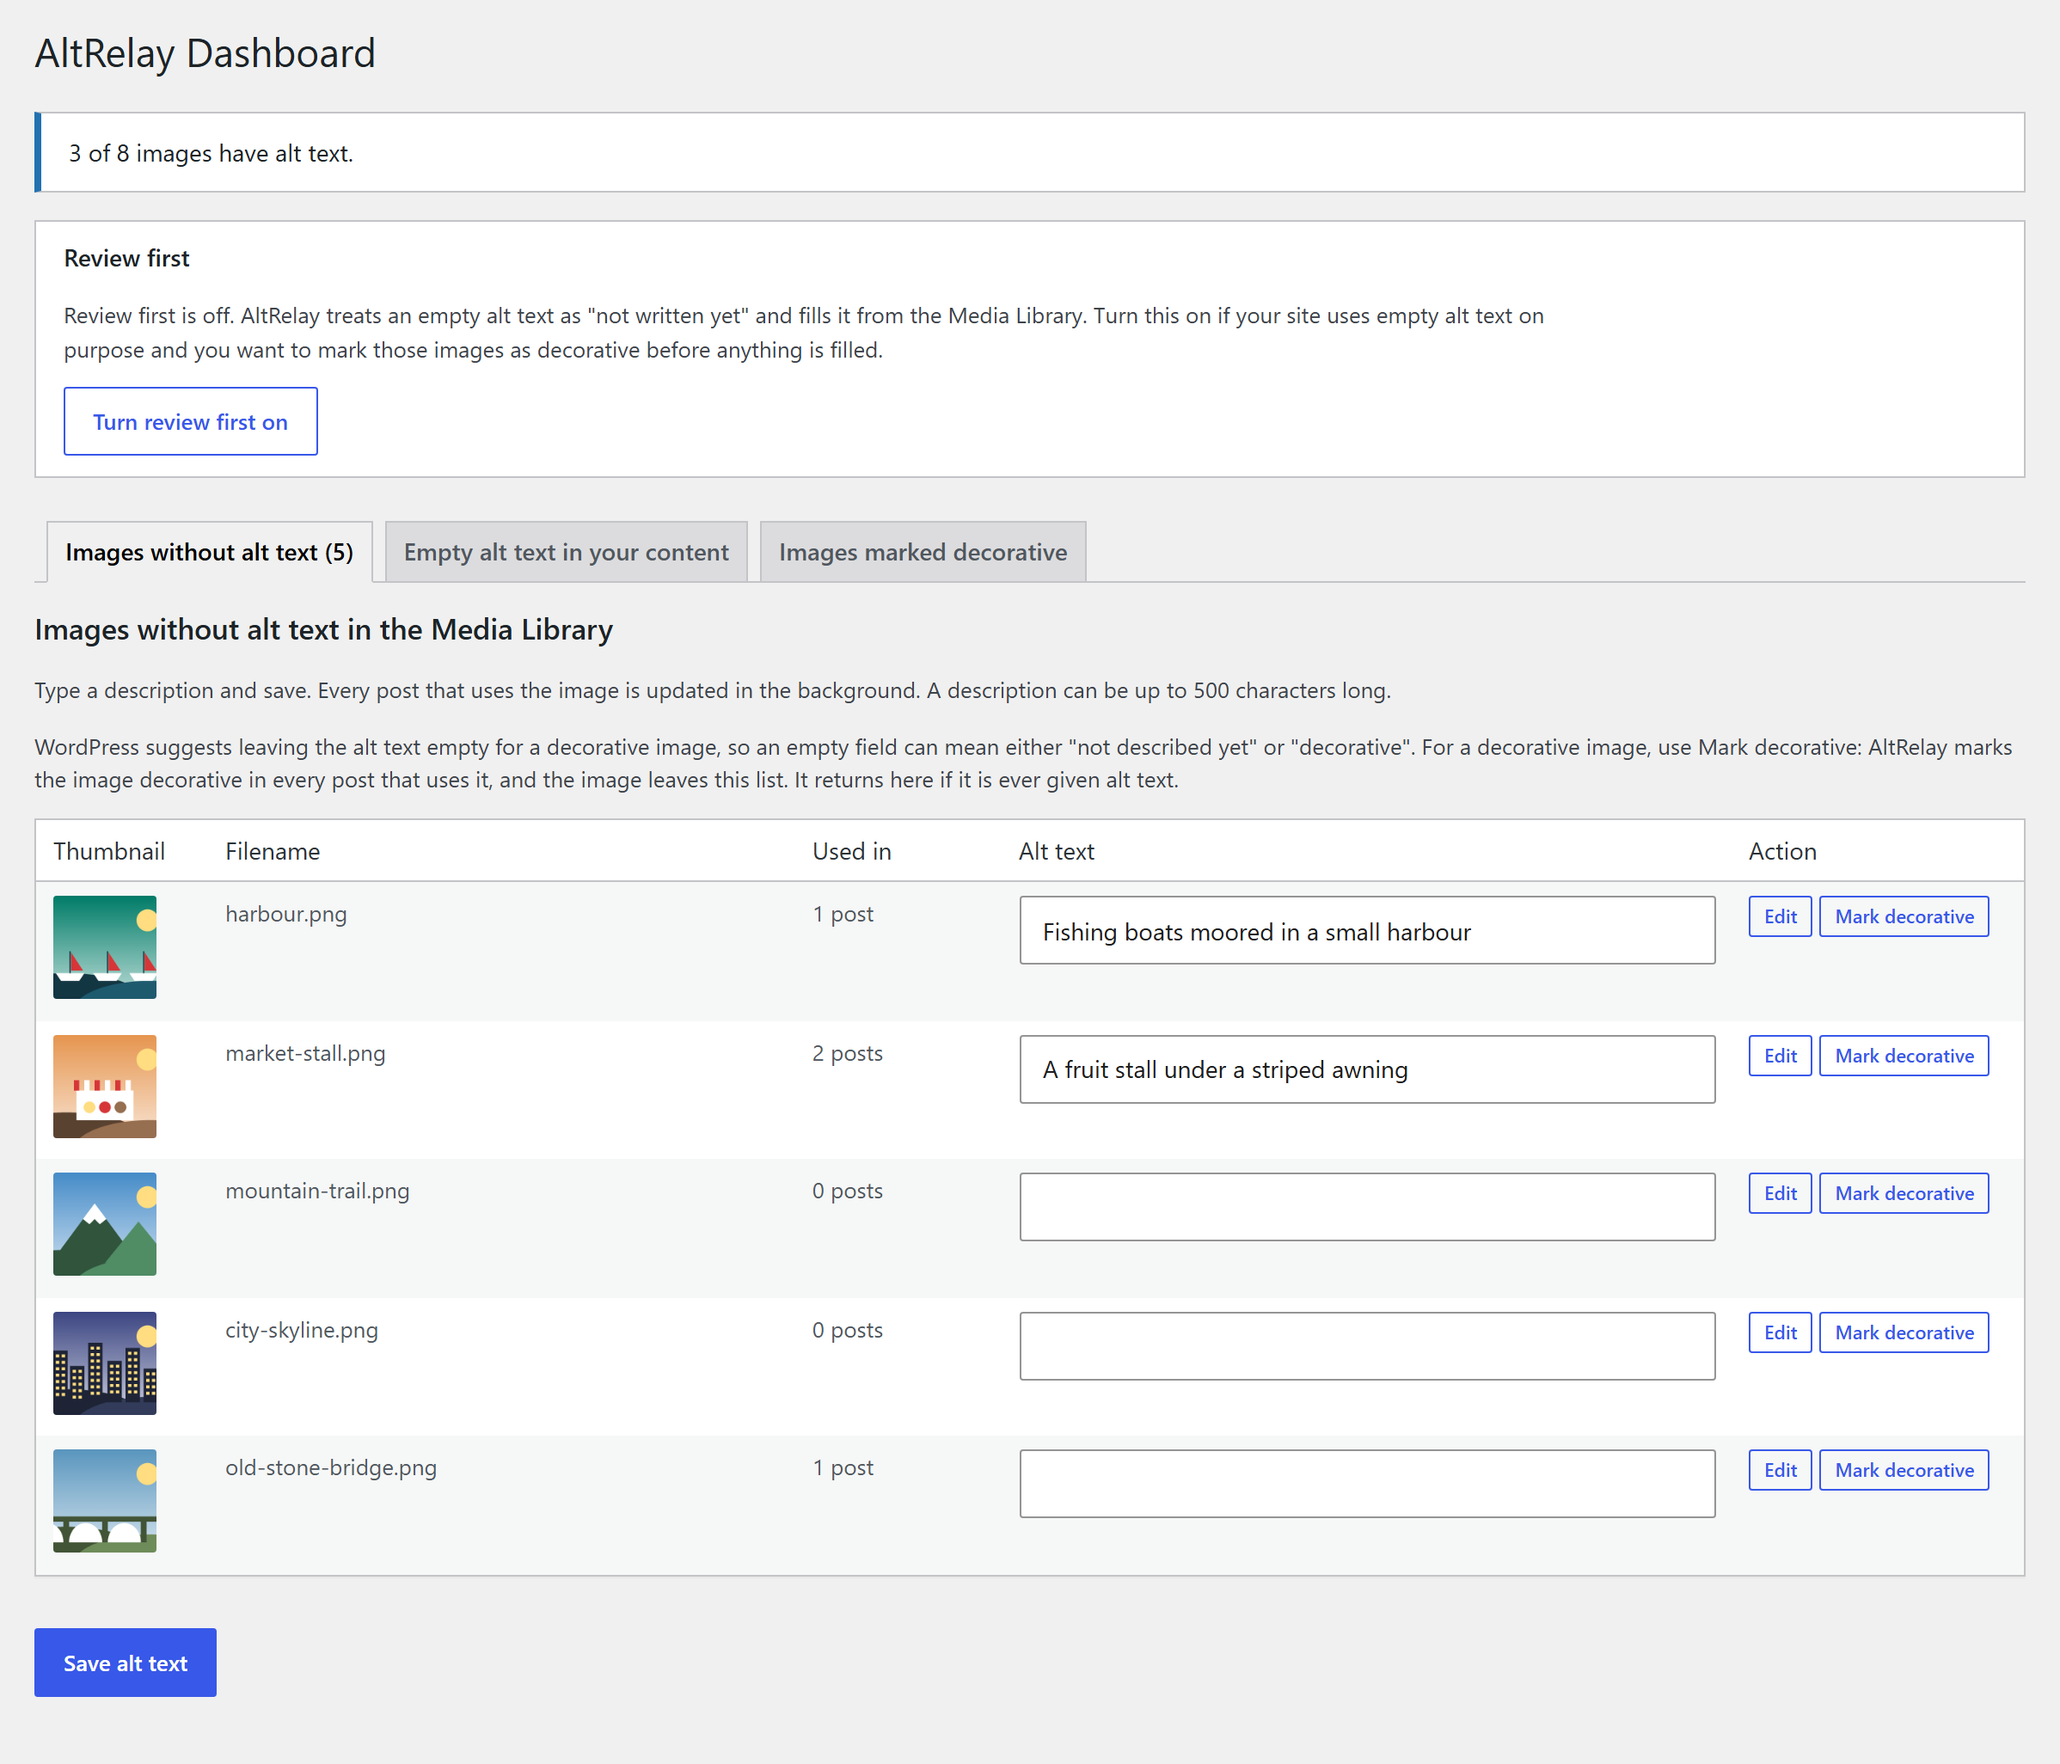
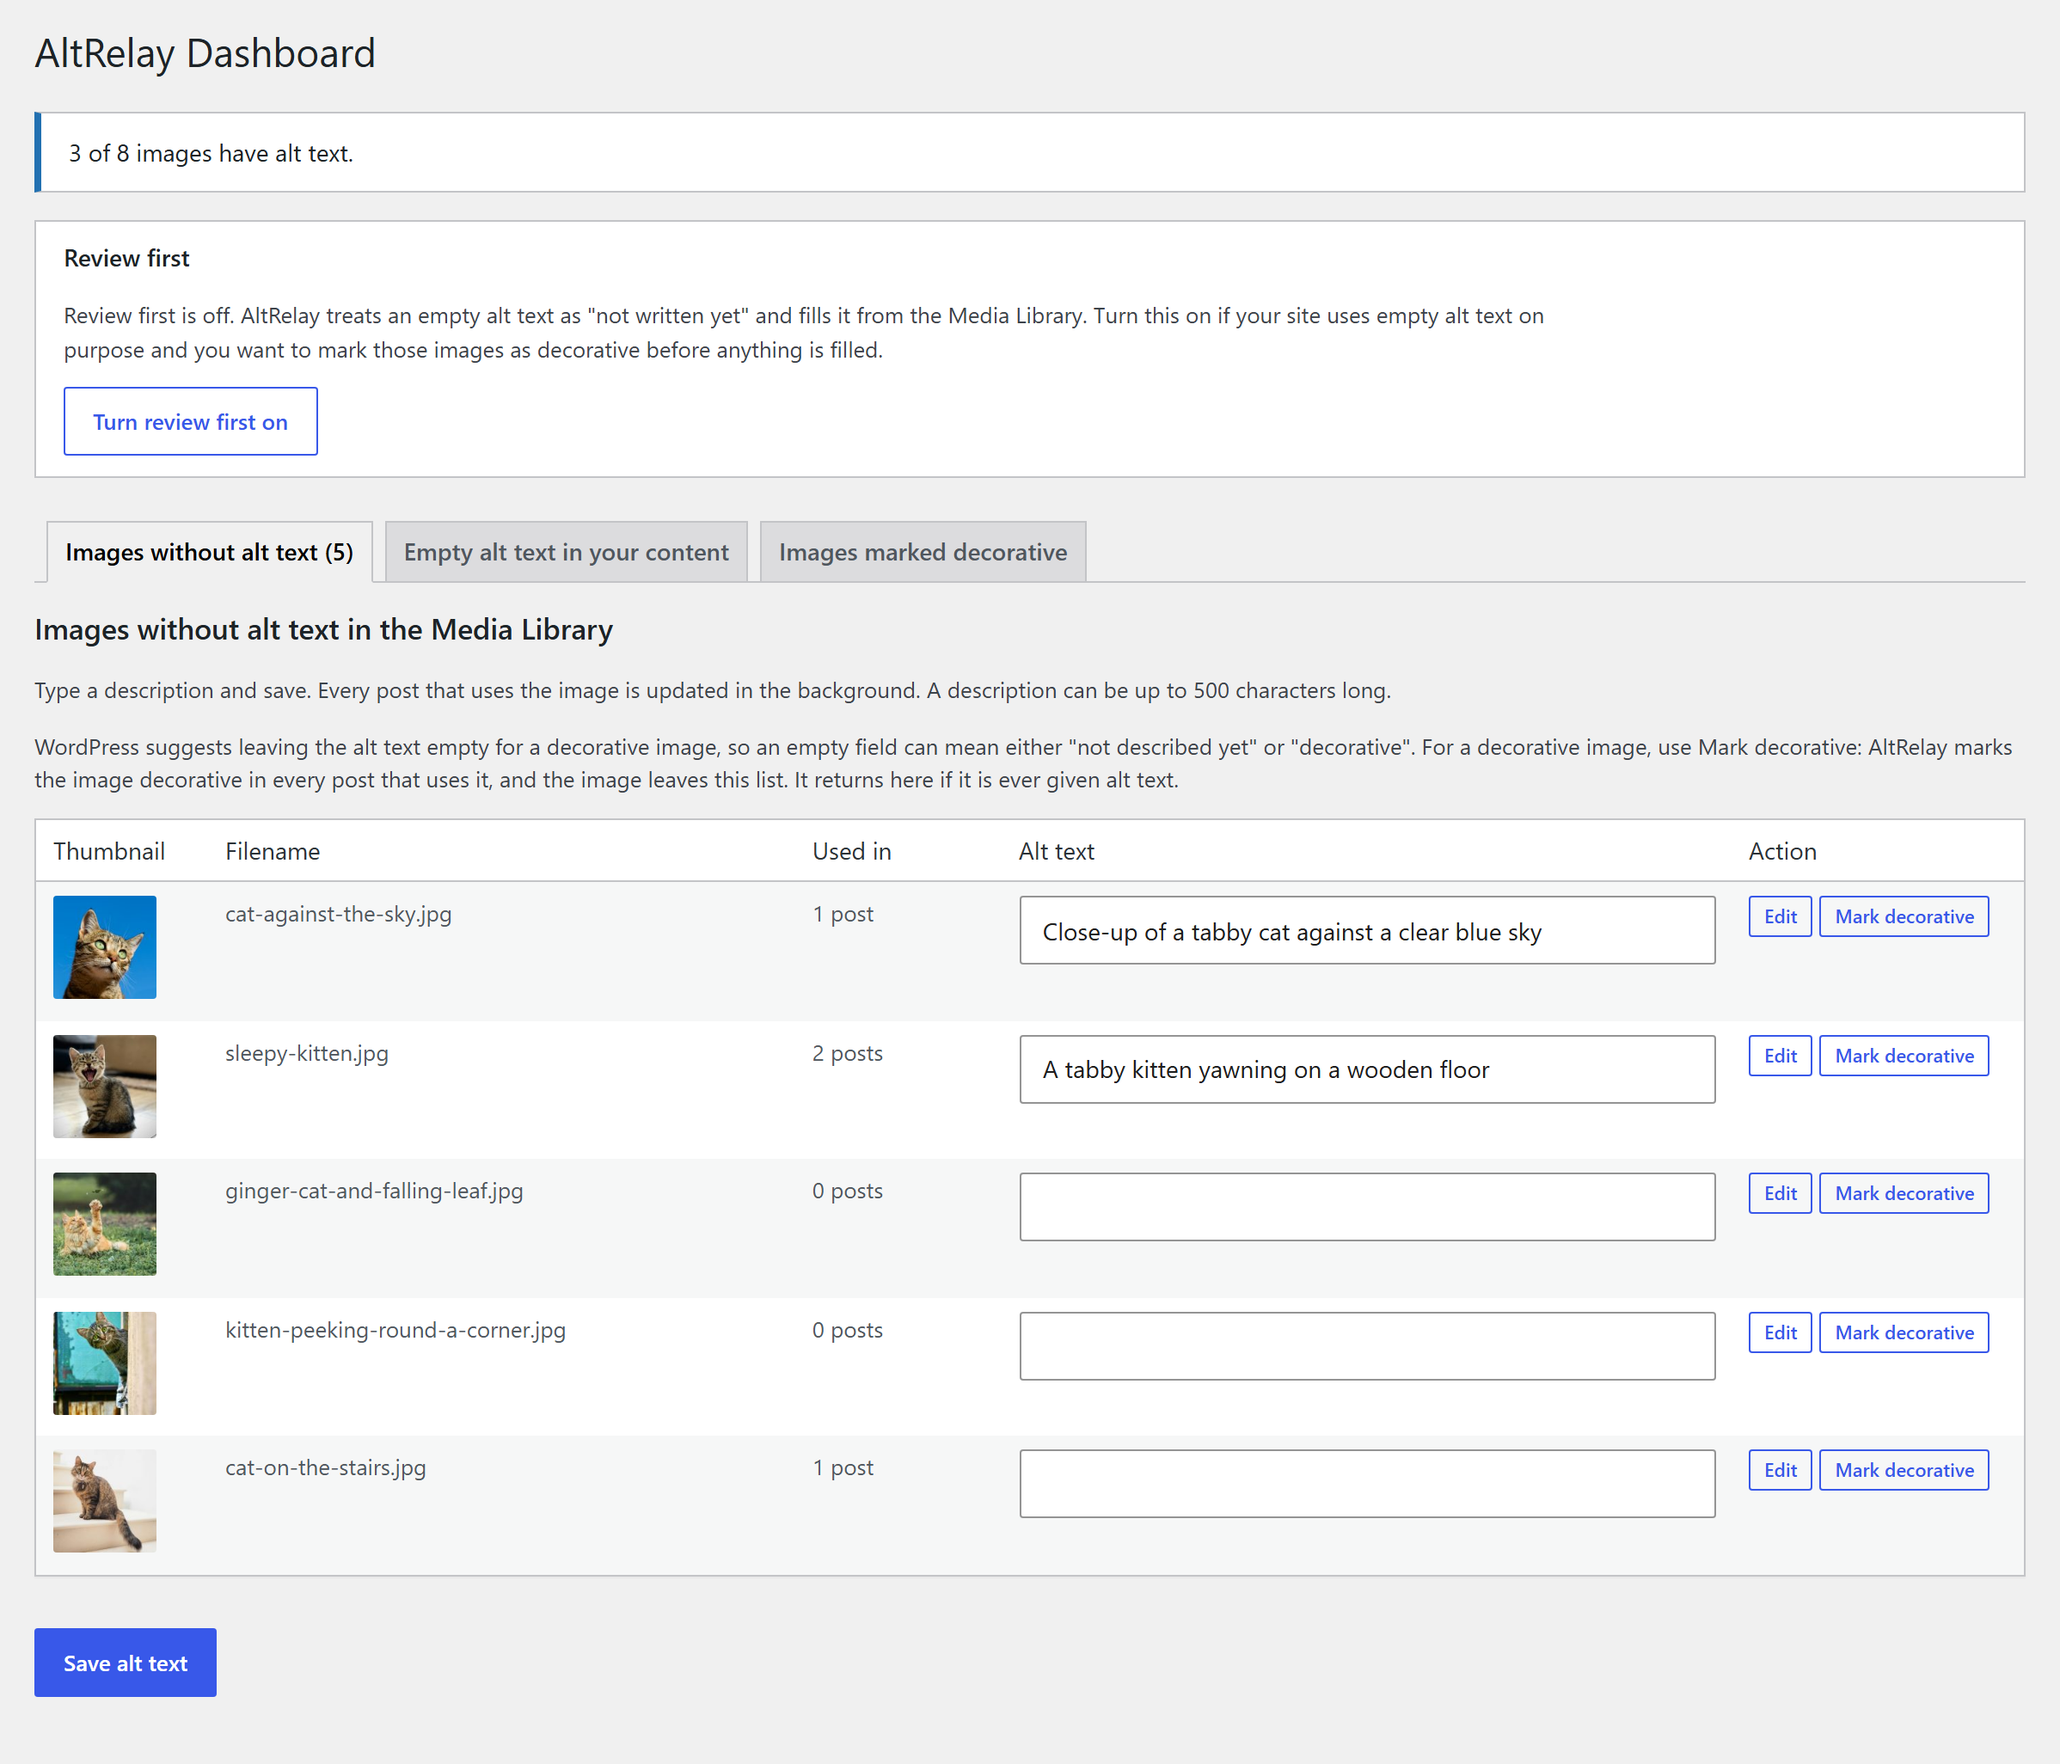
Retake the directory screenshots with real photos and add a workflow that updates only the WordPress.org listing

diff --git a/CONTRIBUTING.md b/CONTRIBUTING.md
@@ -157,4 +157,4 @@ WordPress.org hosts plugins in Subversion. This repository stays the source of t
 2. Add the secrets `SVN_USERNAME` (your WordPress.org username) and `SVN_PASSWORD` (the SVN password generated under *Account & Security* in your WordPress.org profile, not your login password).
 3. Add the repository variable `WPORG_DEPLOY_ENABLED` with the value `true`.
 
-To update only the listing (readme, screenshots, banners) without a release, edit the files and deploy them from SVN by hand, or ship them with the next tag.
+To update only the listing without a release (screenshots, banners, icons, the blueprint, or a readme fix such as a new `Tested up to`), commit the files to `main`, then run the **WordPress.org listing** workflow (`listing.yml`) under *Actions*. It sends `readme.txt` and `.wordpress-org/` to SVN and leaves the plugin code alone. Whatever `readme.txt` says on `main` goes live, so keep the changelog for an unreleased version on a branch until its release; the workflow stops if the Stable tag names a version that has no tag yet.
